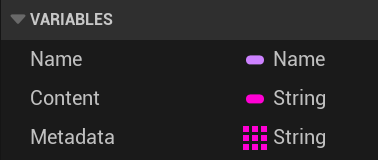
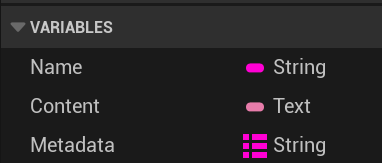
Tooltip decorator

diff --git a/coding-and-design/smart-text/rich-text.md b/coding-and-design/smart-text/rich-text.md
@@ -7,10 +7,32 @@ order: 3
 
 ---
 
-## <span class="dialogue">Built-in Tags</span>
+## <span class="dialogue">Built-in Rich Text Tags</span>
 
-!!!ghost
-:construction: Under construction :construction:
+Quillscript comes packed with a set of built-in rich text tags that can be used to format text in a Rich Text Block.
+
+And you can also create your own custom rich text data table with custom tags, and apply it to any Rich Text Block, including to custom Dialog Box and Selection Box widgets.
+
+The built-in Dialog Box and Selection Box widget supports the following tags:
+
+Rich Text Tag | Source Text              | Formatted Text Result {.compact}
+---           | ---                      | ---
+b             | `<b>bold</>`             | **bold**
+i             | `<i>italic</>`           | _italic_
+bi            | `<bi>bold and italic</>` | **_bold and italic_**
+u             | `<u>underline</>`        | <u>underline</u>
+s             | `<s>strike</>`           | ~~strike~~
+a             | `<a>anchor</>`           | <span style="color: blue; text-decoration: underline;">anchor</span>
+info          | `<info>info</>`          | <span style="color: #00E592;">info</span>
+warning       | `<warning>warning</>`    | <span style="color: #FFC107; font-style: italic;">warning</span>
+danger        | `<danger>danger</>`      | <span style="color: #F44336; font-weight: bold">danger</span>
+disable       | `<disable>disable</>`    | <span style="color: #666666; font-weight: 200">disable</span>
+big           | `<big>big</>`            | <span style="font-size: 24px">big</span>
+small         | `<small>small</>`        | <span style="font-size: 11px">small</span>
+
+!!!
+You can find the rich text **data table** at
+`(Quillscript Folder) > Runtime > Utils > QuillscriptRichTextStyles`.
 !!!
 
 ---
@@ -33,12 +55,18 @@ Tooltips are floating text that appears when the mouse hovers over a specific ar
 
 Show a tooltip text when a substring is hovered.
 
-```q
+```q #
 - .
-  This text is written using <data tooltip="Our custom scripting language tailored for dialogues">Quillscript Language</>, as any other dialogue in this project.
+  As the radiant light of the <wiki id="Solgem">Solgem</> waned,
+  Elder Kael turned to you, his voice heavy with urgency.
+
+- Elder Kael
+  The <wiki id="Riftveil">Riftveil</> is growing unstable, and without the resources to mend it.
+  You must journey to the <location tooltip="North of the Green River">Obsidian Hollows</> and
+  retrieve the <wiki id="Emberheart">Emberheart</> before it's too late!
 ```
 
-![](../../static/img/examples/tooltiptext.png)
+![](../../static/img/examples/tooltiptext.gif)
 
 You can customize the tooltip text and content text style, including the background color or image.
 
@@ -62,10 +90,30 @@ In the newly created blueprint, add a new entry to the **Tooltip Tags** array.
 
 Here you can customize the appearance of the source text content and the tooltip text.
 
-If you set a **Widget Class**, the text or tooltip will be displayed as a widget instead of a text and any related style setting is ignored.
+Now, when you add the tag attribute `tooltip` to a substring, the tooltip will be displayed when the mouse hovers over it.
 
-The selected **Widget Class** must have 3 required variables, where Quillscript will inject the data you need to display information inside your widget.
+```q
+- Bob
+  Hello, <mytag tooltip="Alice's brother">Bob</>!
+```
+
+### Tooltip Widget
+
+If you set a **Widget Class**, the text and/or tooltip will be displayed as a custom widget instead.
+
+The used **Widget Class** must have 3 required variables, where Quillscript will inject the data you need to display information inside your widget.
 
 ![](../../static/img/examples/decorator-variables.png)
+
+Variable     | Type                                    | Data {.compact}
+---          | ---                                     | ---
+**Name**     | String `FString`                        | The name of the rich text tag used
+**Content**  | Text `FText`                            | The content text inside of the rich text tag
+**Metadata** | Map of Strings `TMap<FString, FString>` | The metadata attributes of the rich text tag
+
+!!!warning
+**For C++ Widgets**
+These variables must be **UProperty**
+!!!
 
 ---

diff --git a/coding-and-design/libraries/blueprint-macros.md b/coding-and-design/libraries/blueprint-macros.md
@@ -2,13 +2,160 @@
 label: Blueprint Macros
 icon: paintbrush
 order: 2
-visibility: hidden
 ---
 # Blueprint Macros
 > Blueprint Macros Library
 
+A collection of general usage <span class="blueprint">Blueprint Macros</span> that can be used in any project to improve the workflow and reduce the amount of code duplication.
+
+---
+
+## <span class="label">Utilities</span>
+
+[//]: <> (=========================================================================================)
+
+:::api
+### Is None
+
 !!!ghost
 :construction: Under construction :construction:
+Please refer to the in-engine documentation
 !!!
+
+:::
+<br>
+
+[//]: <> (=========================================================================================)
+
+:::api
+### Is Empty Text
+
+!!!ghost
+:construction: Under construction :construction:
+Please refer to the in-engine documentation
+!!!
+
+:::
+<br>
+
+[//]: <> (=========================================================================================)
+
+:::api
+### Is Empty
+
+!!!ghost
+:construction: Under construction :construction:
+Please refer to the in-engine documentation
+!!!
+
+:::
+<br>
+
+[//]: <> (=========================================================================================)
+
+:::api
+### Is Populated
+
+!!!ghost
+:construction: Under construction :construction:
+Please refer to the in-engine documentation
+!!!
+
+:::
+<br>
+
+[//]: <> (=========================================================================================)
+
+:::api
+### Is Valid Class
+
+!!!ghost
+:construction: Under construction :construction:
+Please refer to the in-engine documentation
+!!!
+
+:::
+<br>
+
+---
+
+## <span class="label">User Interface</span>
+
+[//]: <> (=========================================================================================)
+
+:::api
+### Is in Viewport
+
+!!!ghost
+:construction: Under construction :construction:
+Please refer to the in-engine documentation
+!!!
+
+:::
+<br>
+
+---
+
+## <span class="label">Editor</span>
+
+[//]: <> (=========================================================================================)
+
+:::api
+### Is with Editor
+
+!!!ghost
+:construction: Under construction :construction:
+Please refer to the in-engine documentation
+!!!
+
+:::
+<br>
+
+---
+
+## <span class="label">Animation</span>
+
+[//]: <> (=========================================================================================)
+
+:::api
+### Is Animation Playing
+
+!!!ghost
+:construction: Under construction :construction:
+Please refer to the in-engine documentation
+!!!
+
+:::
+<br>
+
+---
+
+## <span class="label">Network</span>
+
+[//]: <> (=========================================================================================)
+
+:::api
+### Is Host
+
+!!!ghost
+:construction: Under construction :construction:
+Please refer to the in-engine documentation
+!!!
+
+:::
+<br>
+
+[//]: <> (=========================================================================================)
+
+:::api
+### Has Authority
+
+!!!ghost
+:construction: Under construction :construction:
+Please refer to the in-engine documentation
+!!!
+
+:::
+<br>
 
 ---

diff --git a/coding-and-design/smart-text/smart-text-block.md b/coding-and-design/smart-text/smart-text-block.md
@@ -2,12 +2,25 @@
 label: Smart Text Block
 icon: quote
 order: 1
-visibility: hidden
 ---
 # Smart Text Block
 
-!!!ghost
-:construction: Under construction :construction:
-!!!
+The Smart Text Block is a custom [Rich Text Block](https://dev.epicgames.com/documentation/en-us/unreal-engine/umg-rich-text-block?application_version=4.27) that automatically applies a replace function to substitute [Quillscript variables](../../language/command/quillscript-variables.md) and other supplied key value pairs. It will behave as a normal Rich Text Block for all cases, but with the added functionality.
+
+---
+
+## Usage
+
+To add a Smart Text Block to your widget, it can be found in the palette under the `Common` category.
+
+![](../../static/img/examples/smart-text-block-palette.png)
+
+In the details panel, you can set any additional key value pairs that you want to use in the replace function. It can also use a [String Table](https://dev.epicgames.com/documentation/unreal-engine/using-string-tables-for-text-in-unreal-engine) as a source for the key value pairs.
+
+![](../../static/img/examples/smart-text-block-details.png)
+
+Additionally, this properties can be set from code.
+
+![](../../static/img/examples/smart-text-block-getset.png)
 
 ---

diff --git a/coding-and-design/libraries/editor-tools.md b/coding-and-design/libraries/editor-tools.md
@@ -2,13 +2,57 @@
 label: Editor Tools
 icon: paste
 order: 1
-visibility: hidden
 ---
 # Editor Tools
 > Editor Tools Function Library
 
+A collection of functions that can be used to perform various task in the <span class="cpp">editor</span> and <span class="cpp">editor utility</span> functions.
+
+---
+
+## <span class="directive">Widgets</span>
+
+[//]: <> (=========================================================================================)
+
+:::api
+### Spawn Tab
+
 !!!ghost
 :construction: Under construction :construction:
+Please refer to the in-engine documentation
 !!!
+
+:::
+<br>
+
+---
+
+## <span class="directive">Files</span>
+
+[//]: <> (=========================================================================================)
+
+:::api
+### Prompt Save to Text File
+
+!!!ghost
+:construction: Under construction :construction:
+Please refer to the in-engine documentation
+!!!
+
+:::
+<br>
+
+[//]: <> (=========================================================================================)
+
+:::api
+### Prompt Load Text File
+
+!!!ghost
+:construction: Under construction :construction:
+Please refer to the in-engine documentation
+!!!
+
+:::
+<br>
 
 ---

diff --git a/Changelog/v2.4/index.md b/Changelog/v2.4/index.md
@@ -6,11 +6,11 @@ order: 4
 
 ![](../../static/img/changelog/2.4.avif)
 
-!!!light
-Next version to be announced.
-!!!
+This update includes new three major new features to add to Quillscript's pool of tools. It introduces the new [Dynamic Options](../../language/option/dynamic-options.md), [Smart Typewriter](../../coding-and-design/smart-text/smart-typewriter.md), and [Tooltip Text](../../coding-and-design/smart-text/rich-text.md#tooltip-decorator).
 
-**Release Date**: 2025-MM-DD (TBA)
+**Dynamic Options** used when to generate an options set during runtime. The **Smart Typewriter** is our new reusable object to display typewrite effect, text pauses and other functions. And **Tooltip Text** is an new text decorator used to display a tooltip text or widget when a substring is hovered inside a rich text text block.
+
+**Release Date**: 2025-01-07
 **Engine Version**: 5.5
 
 ---

diff --git a/Changelog/index.md b/Changelog/index.md
@@ -7,12 +7,15 @@ order: 1
 
 <br>
 
-### v2.4 | [!badge text=":icon-calendar: 2025-MM-DD" variant="info" corners="pill"] [!badge text="next" variant="dark"]
+[//]: <> ([!badge text="next" variant="dark"])
+[//]: <> ([!badge text="latest" variant="primary"])
+
+### v2.4 | [!badge text=":icon-calendar: 2025-01-07" variant="info" corners="pill"] [!badge text="latest" variant="primary"]
 [!ref](./v2.4/)
 
 ---
 
-### v2.3.2 | [!badge text=":icon-calendar: 2024-12-04" variant="info" corners="pill"] [!badge text="latest" variant="primary"]
+### v2.3.2 | [!badge text=":icon-calendar: 2024-12-04" variant="info" corners="pill"]
 [!ref](./v2.3/v2.3.2)
 
 ---
